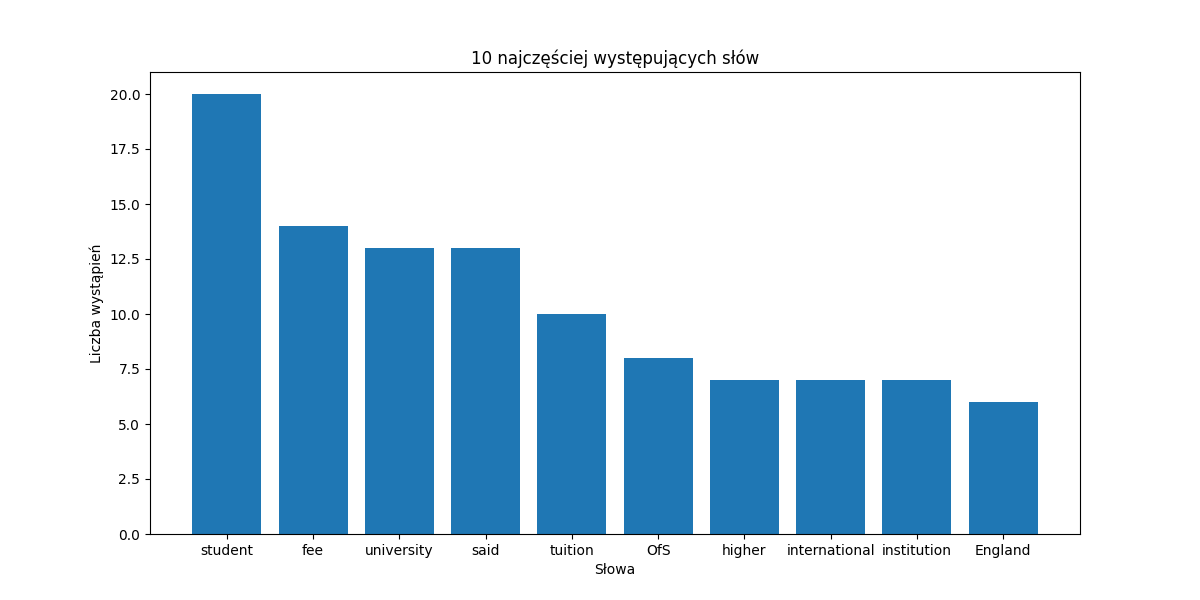
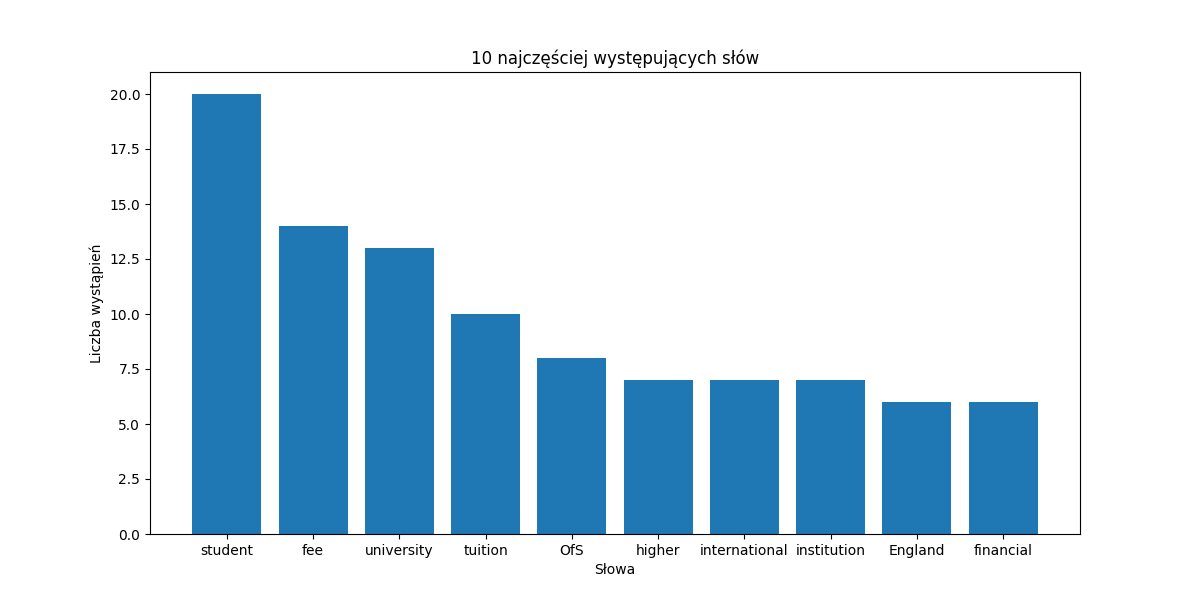
dokonczone zadanie 1

diff --git a/lab08/zad01.py b/lab08/zad01.py
@@ -2,6 +2,7 @@ from nltk.tokenize import word_tokenize
 from nltk.corpus import stopwords
 from nltk.stem import WordNetLemmatizer
 from collections import Counter
+import wordcloud
 import matplotlib.pyplot as plt
 
 with open('./lab08/article.txt', 'r', encoding='utf-8') as file:
@@ -11,28 +12,39 @@ tokens = word_tokenize(article)
 # print(len(tokens)) #969
 
 stop_words = set(stopwords.words('english'))
-additional_stop_words = ["'s", "'re", "n't", "(", ")", "%", ",", ".", "``", "-", "''", "?", "'", ":"]
+additional_stop_words = ["'s", "'re", "n't", "'we", "'my", "(", ")", "%", ",", ".", "``", "-", "''", "?", "'", ":", "said", "yet", "told", "must", "make", "also", "might", "many", "already", "almost", "say", "following"]
 for w in additional_stop_words:
     stop_words.add(w)
 
 filtered_article = [w for w in tokens if not w.lower() in stop_words]
-# print(len(filtered_article)) #na początku: 613 po dodaniu dodatkowych słów: 492
+# print(filtered_article) #na początku: 613 po dodaniu dodatkowych słów: 460
 
 lemmatizer = WordNetLemmatizer()
 
 lemmatized_article = [lemmatizer.lemmatize(token) for token in filtered_article]
-# print(len(lemmatized_article)) #492
+# print(len(lemmatized_article)) #460
 
 word_counts = Counter(lemmatized_article)
 # print(word_counts)
 
-most_common = word_counts.most_common(10)
-words = [word for word, count in most_common]
-counts = [count for word, count in most_common]
+# 10 najczęstszych słów
+# most_common = word_counts.most_common(10)
+# words = [word for word, count in most_common]
+# counts = [count for word, count in most_common]
 
-plt.figure(figsize=(12, 6))
-plt.bar(words, counts)
-plt.title('10 najczęściej występujących słów')
-plt.xlabel('Słowa')
-plt.ylabel('Liczba wystąpień')
-plt.show()
+# Wykres słupkowy najczęstszych słów
+# plt.figure(figsize=(12, 6))
+# plt.bar(words, counts)
+# plt.title('10 najczęściej występujących słów')
+# plt.xlabel('Słowa')
+# plt.ylabel('Liczba wystąpień')
+# plt.show()
+
+# Word Cloud
+# with open('./lab08/lemmantized_article.txt', 'r', encoding='utf-8') as file:
+#     lemmatized_article_txt = file.read()
+# wordcloud = wordcloud.WordCloud(max_words=100, background_color="white").generate(lemmatized_article_txt)
+
+# plt.imshow(wordcloud)
+# plt.axis("off")
+# plt.show()
